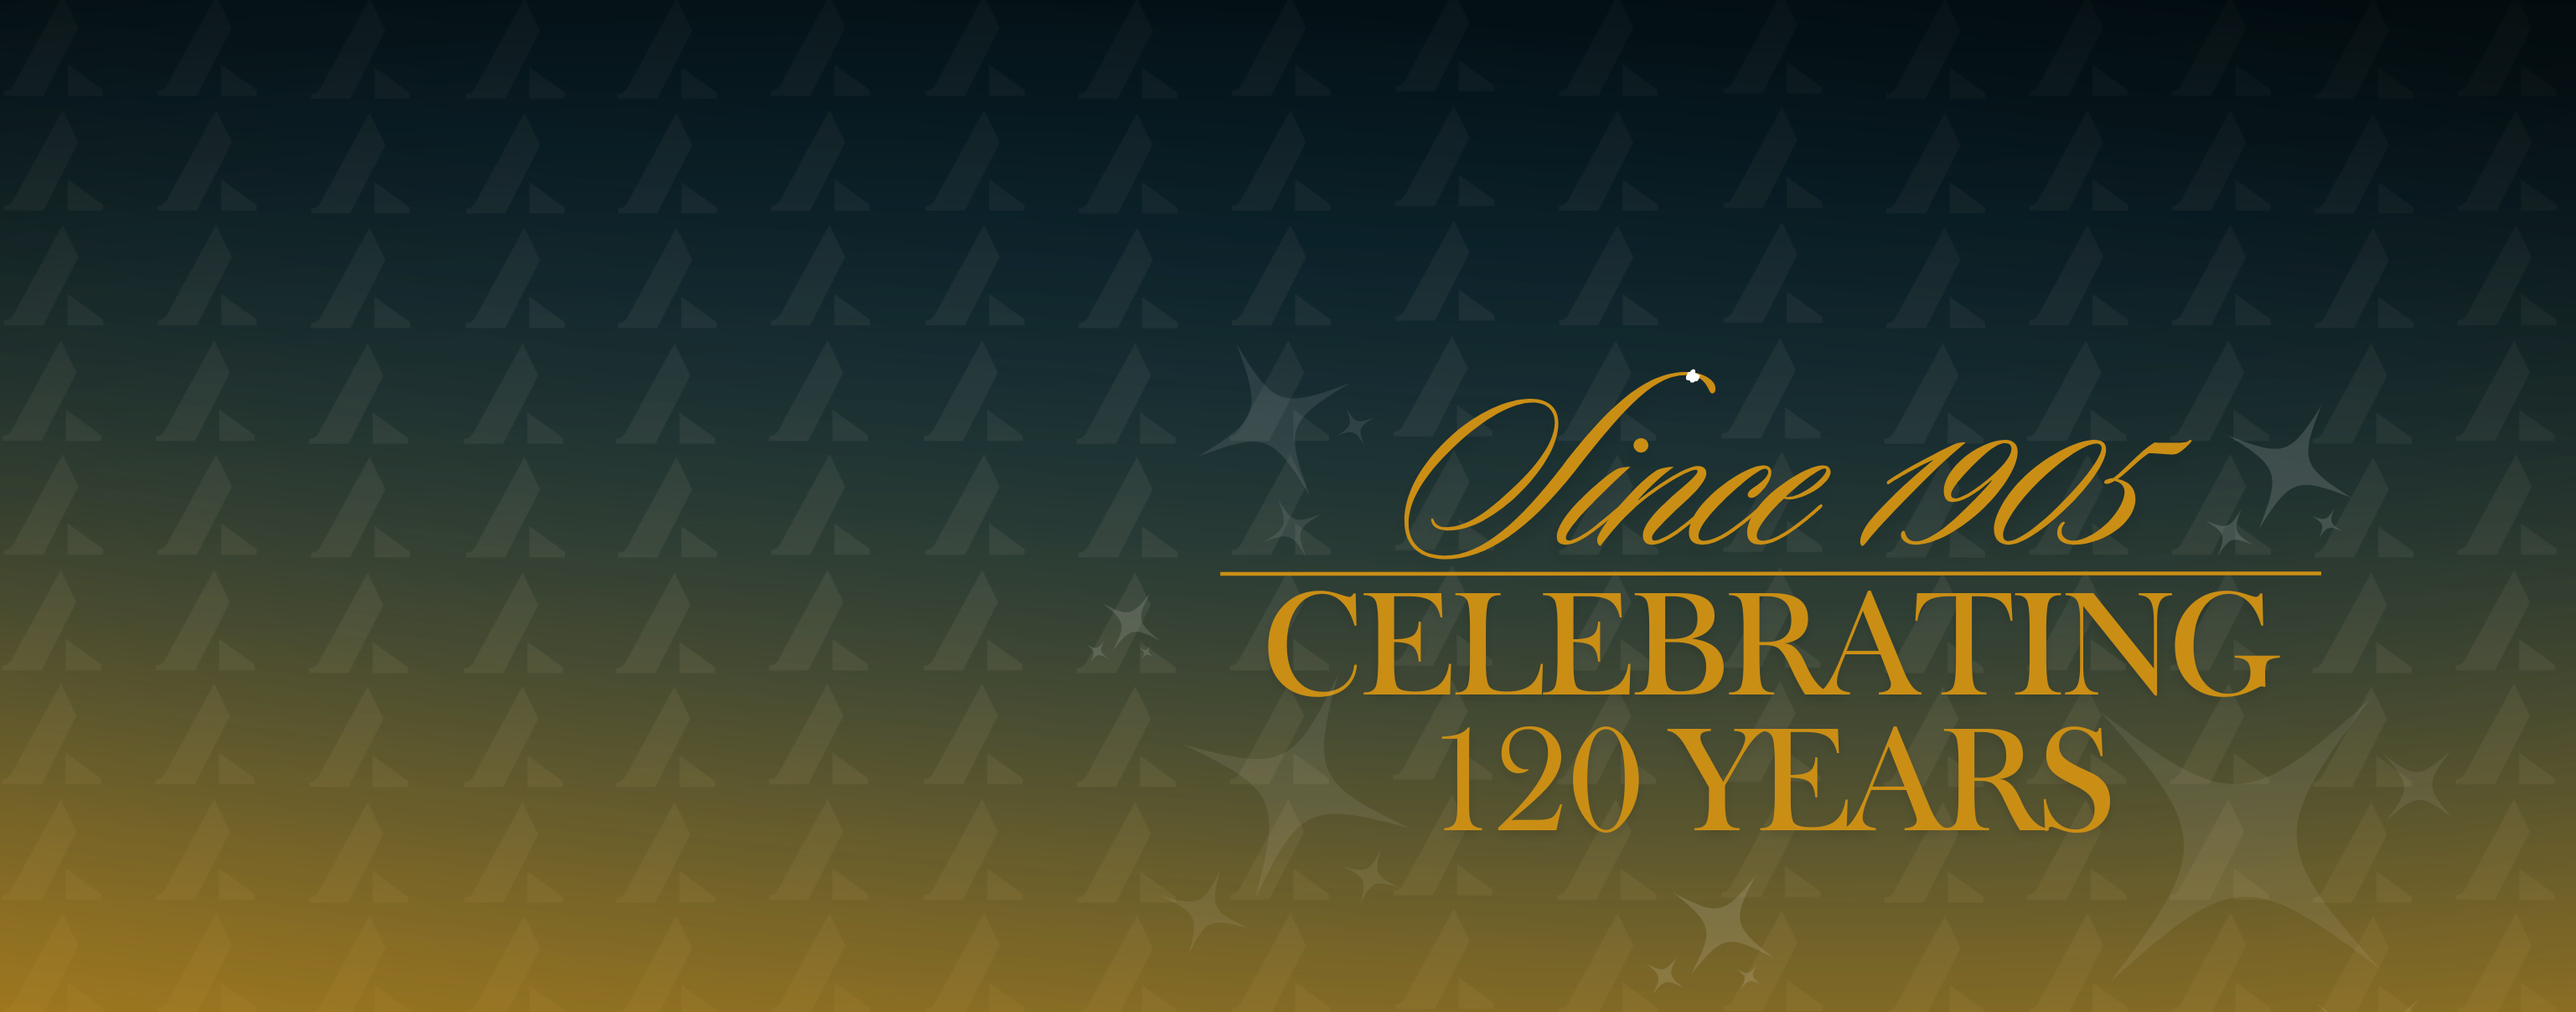
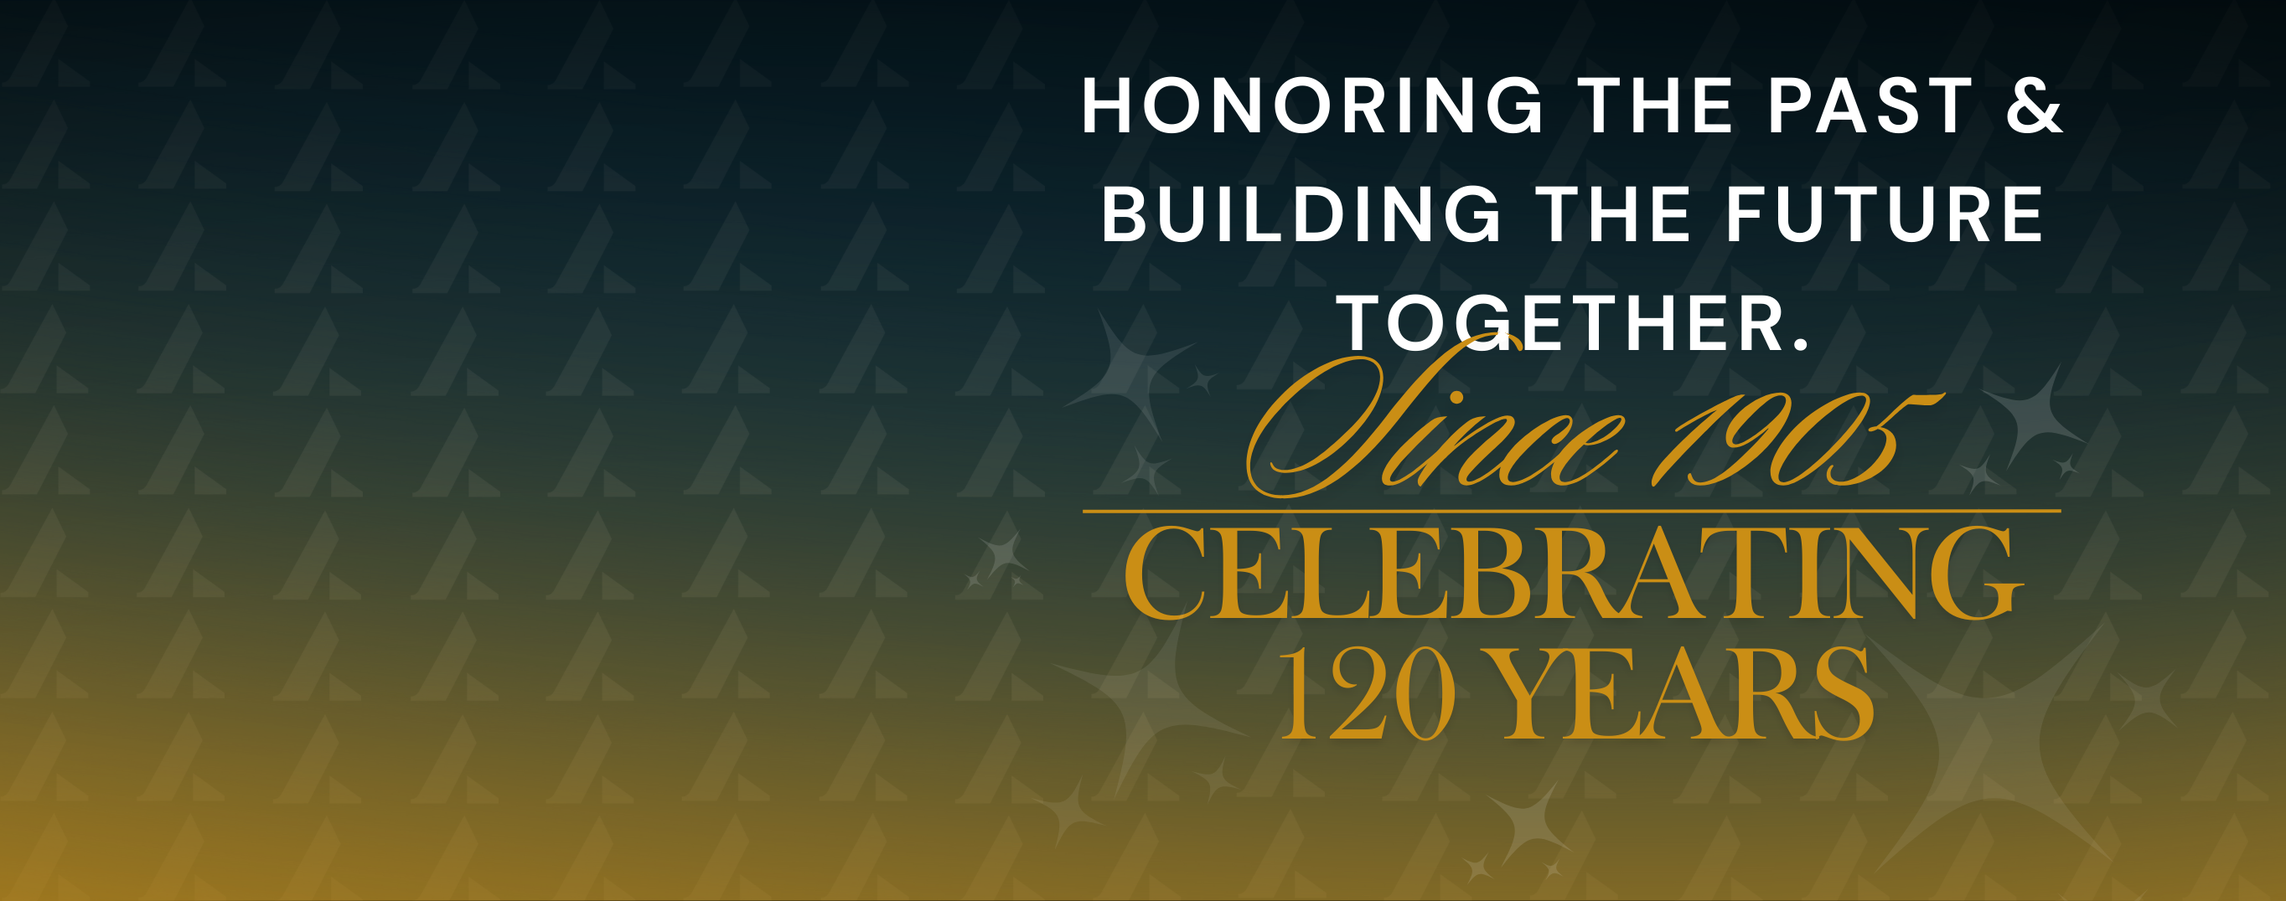
refactor(homepage): remove outdated hero title text from Hero component

diff --git a/src/components/homepage/Hero.tsx b/src/components/homepage/Hero.tsx
@@ -19,13 +19,7 @@ const Hero: React.FC = () => {
 
           {/* Right Column - Text Content */}
           <Col lg={7} className="d-flex flex-column justify-content-center" data-aos="fade-left" data-aos-delay="400">
-            <div className="hero-content">
-              <h1 className="hero-title-main">
-                HONORING THE PAST &<br />
-                BUILDING THE FUTURE<br />
-                TOGETHER.
-              </h1>
-            </div>
+            
           </Col>
         </Row>
       </Container>
